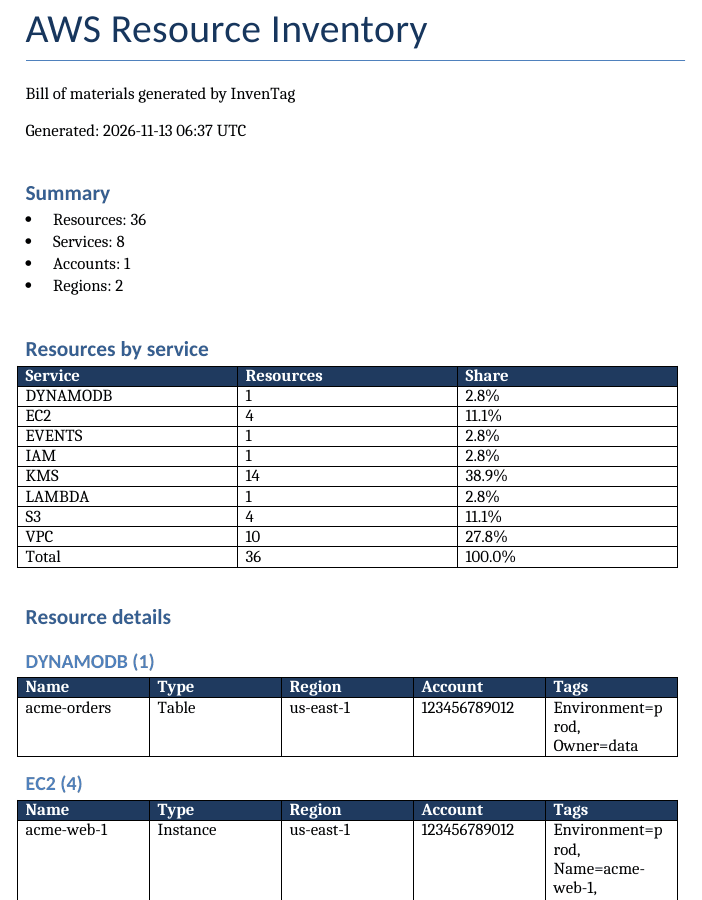
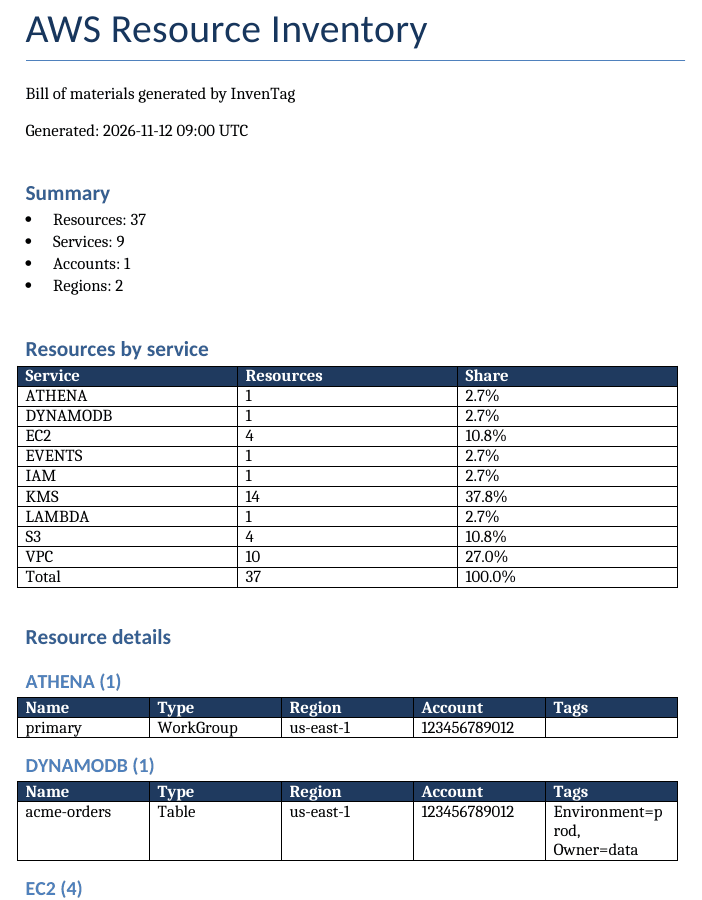
docs: redraw the example pictures from v1.2.0 output; freeze dates in rendered Word files [skip release]

diff --git a/scripts/docs/generate_example_outputs.py b/scripts/docs/generate_example_outputs.py
@@ -666,7 +666,8 @@ def render_png(
             ws.print_options.gridLines = True
             wb.save(src)
         else:
-            shutil.copy(source, src)
+            # Fixed dates inside the file, so the picture does not show today's time.
+            stable_zip(source, src)
         env = dict(os.environ, HOME=str(tmp))
         subprocess.run(
             [
